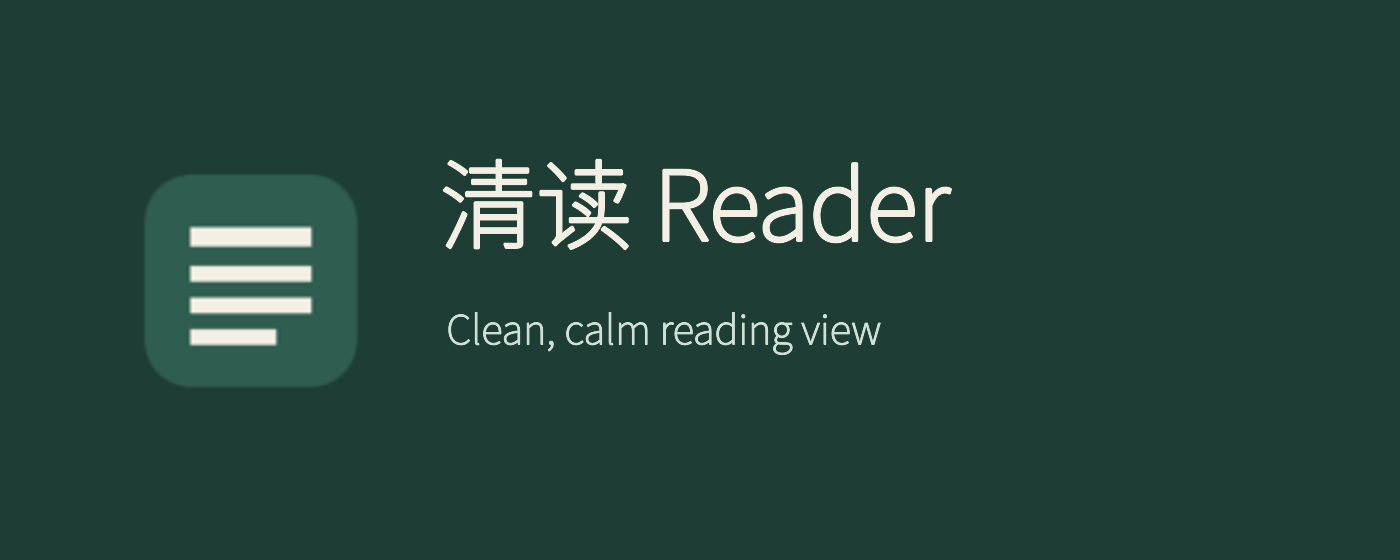
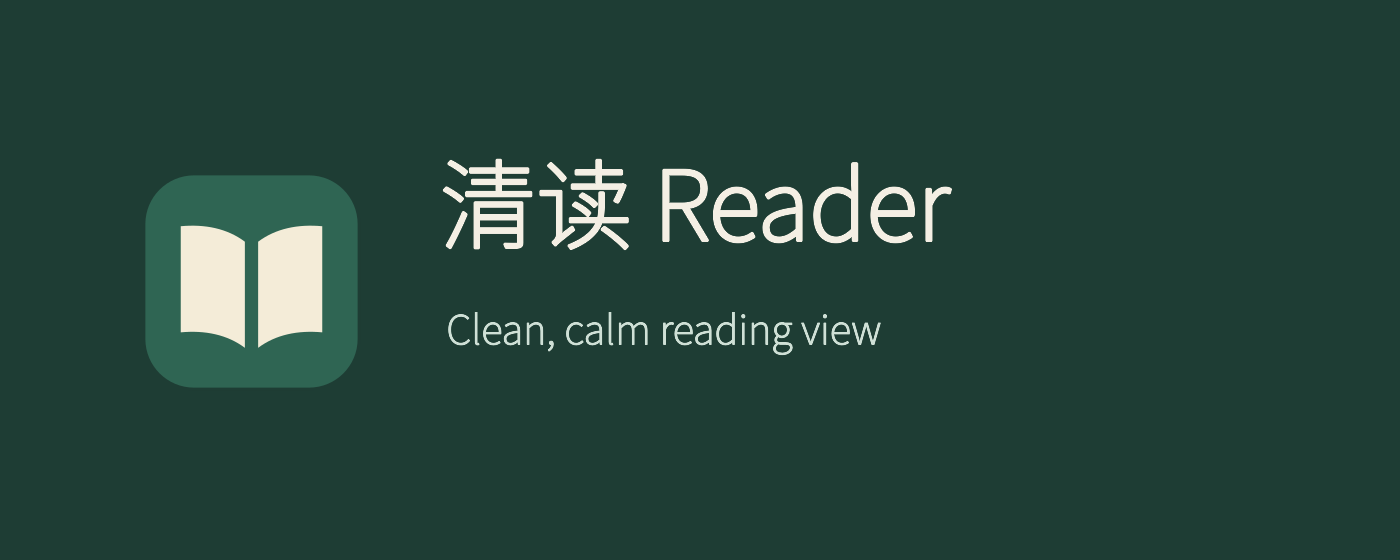
换新图标：简约翻开书本，16/32 按像素网格单独绘制
- icons/：替换 16/32/48/128 PNG
- store/icon-src/：图标 SVG 源文件（不进安装包）
- 宣传图 promo / marquee 同步换成新图标

Changed region(s): [[0.1229, 0.3946, 0.2457, 0.6375]]

diff --git a/README.md b/README.md
@@ -36,4 +36,4 @@
 | `lib/` | Readability 与 DOMPurify 原版文件及许可证 |
 | `_locales/` | 界面文字（en / zh_CN / zh_TW） |
 | `build.sh` | 打包 Firefox / Chrome 两个上传包 |
-| `store/` | 商店文案、截图、宣传图、演示页（不进安装包） |
+| `store/` | 商店文案、截图、宣传图、演示页、图标 SVG 源文件 `icon-src/`（不进安装包） |
